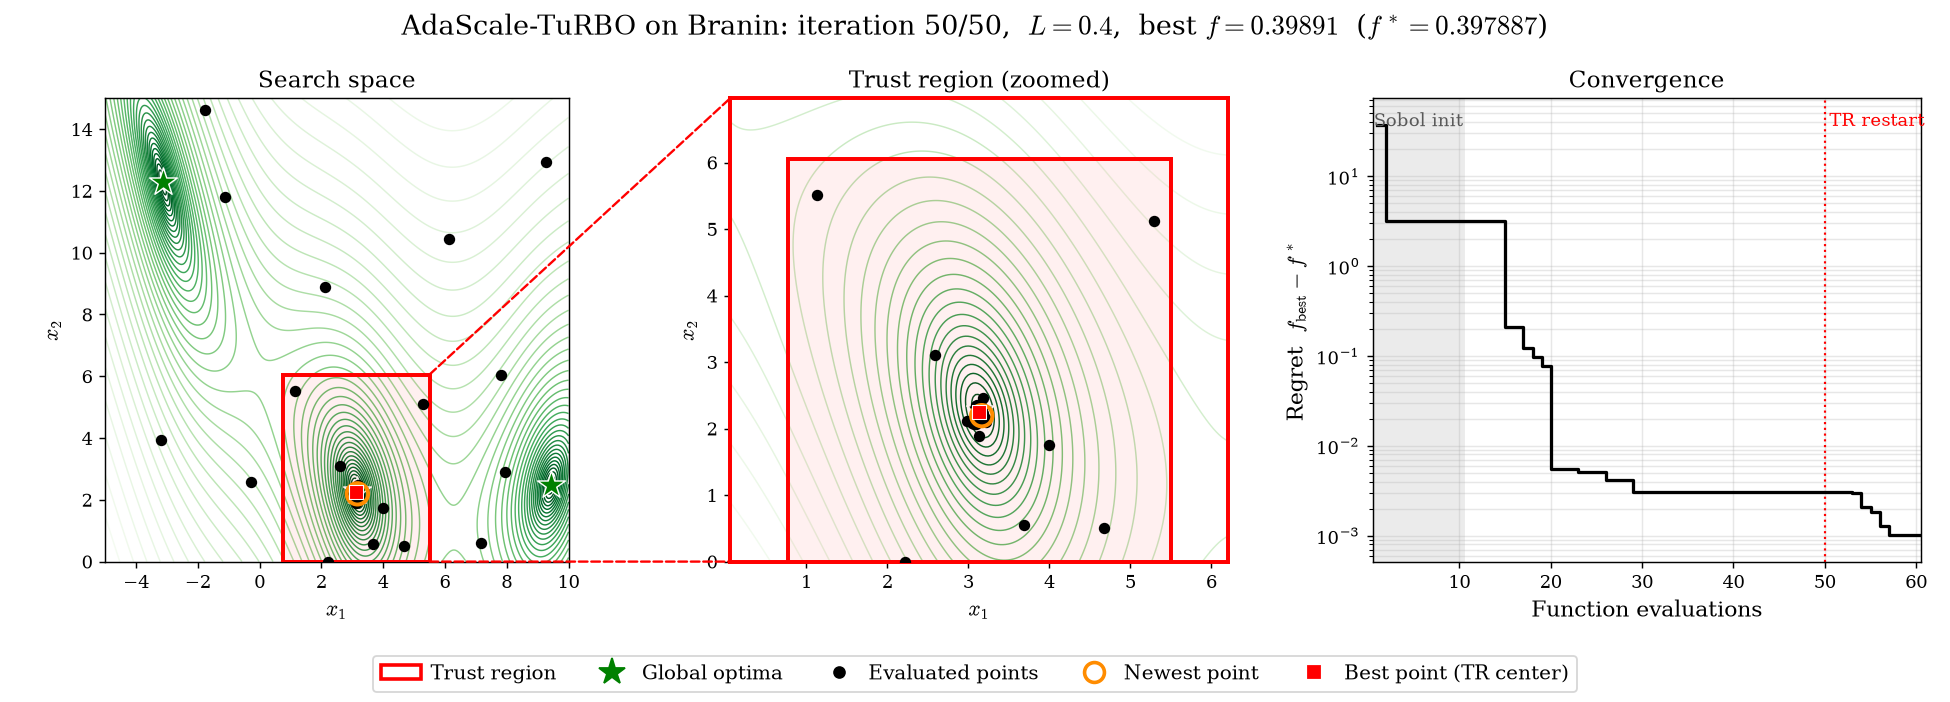
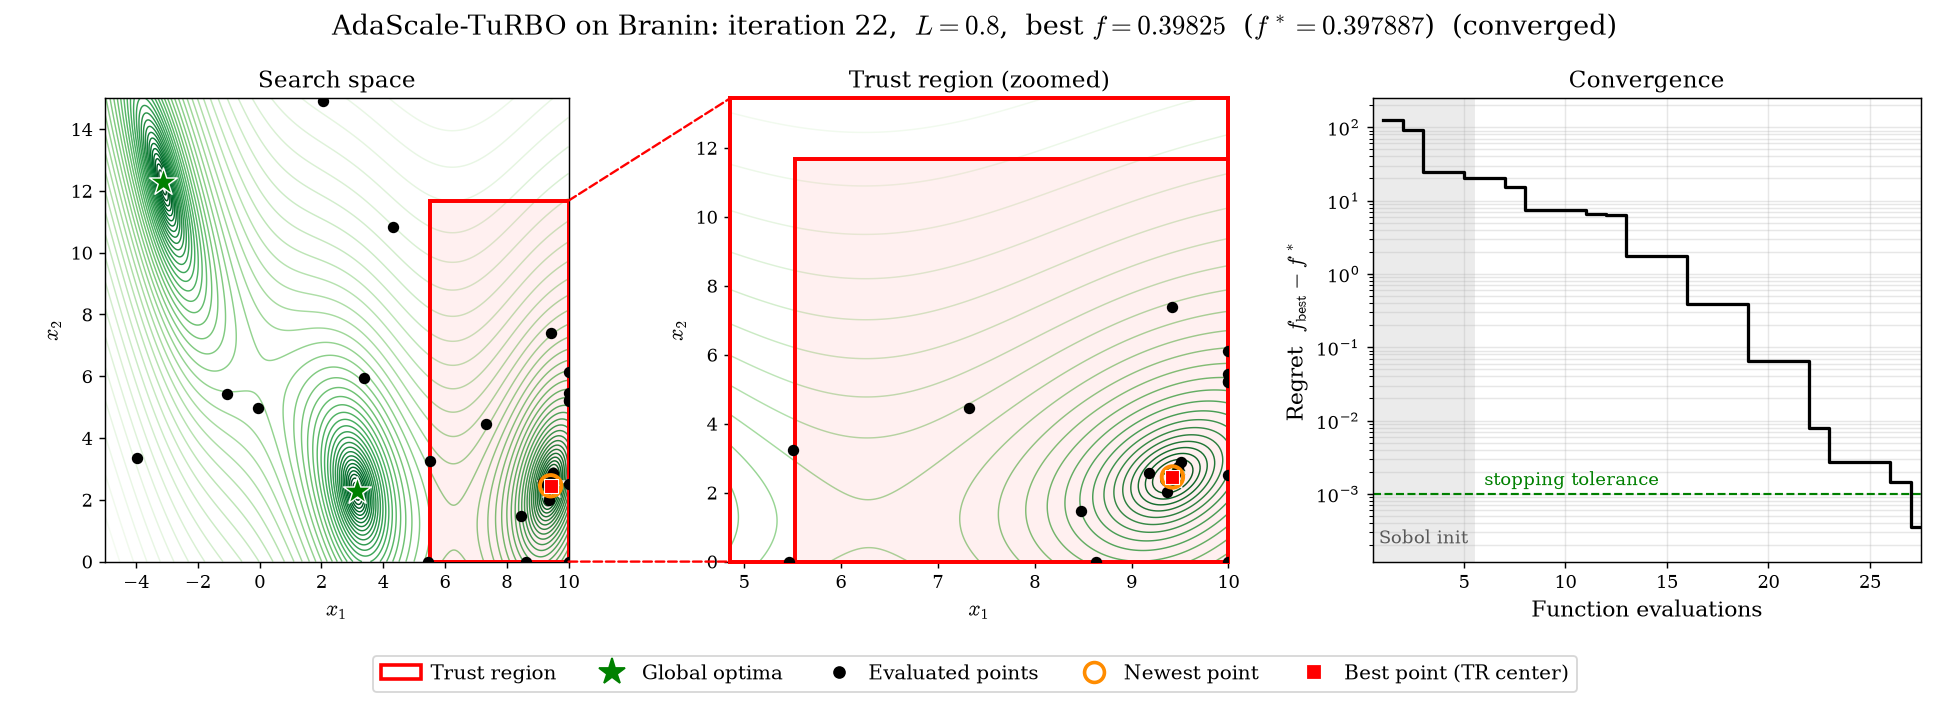
Branin example: 5-point init and early stopping
Start from 5 Sobol points (seed 3, away from all optima) and stop once
the regret drops below --tol (default 1e-3).

diff --git a/examples/branin_animation.py b/examples/branin_animation.py
@@ -4,7 +4,9 @@ Run AdaScale-TuRBO on the 2D Branin function and animate the optimization:
 evaluated points, the trust region, and the incumbent at every iteration.
 
 Usage:
-    python examples/branin_animation.py [--seed 0] [--n-init 10] [--n-iter 50]
+    python examples/branin_animation.py [--seed 3] [--n-init 5] [--n-iter 50] [--tol 1e-3]
+
+The run stops early once the regret f_best - f* drops below --tol.
 """
 import argparse
 import math
@@ -55,7 +57,7 @@ def trust_region_bounds(state, model, X, Y):
     return tr_lb, tr_ub
 
 
-def run(seed, n_init, n_iter):
+def run(seed, n_init, n_iter, tol):
     torch.manual_seed(seed)
     fun = Branin(negate=True).to(dtype=dtype, device=device)  # maximize -Branin
     lb, ub = fun.bounds[0], fun.bounds[1]
@@ -101,6 +103,10 @@ def run(seed, n_init, n_iter):
         print(f"iter {it + 1:3d}  L = {history[-1]['length']:.4f}  "
               f"f(x) = {-Y_next.item():8.4f}  best = {-Y.max().item():.6f}")
 
+        if -Y.max().item() - BRANIN_MIN < tol:
+            print(f"  Regret below {tol:g} after iteration {it + 1}; stopping")
+            break
+
         restarted = state.restart_triggered
         if restarted:  # TR collapsed: restart from L0 around the incumbent
             print(f"  TR side length below L_min after iteration {it + 1}; resetting L to 0.8")
@@ -124,7 +130,7 @@ def _branin_grid(xlim, ylim, n=300):
     return g1, g2, Branin()(grid).numpy().reshape(g1.shape)
 
 
-def animate(X_all, f_all, history, lb, ub, n_init, out_path, fps=3):
+def animate(X_all, f_all, history, lb, ub, n_init, tol, out_path, fps=3):
     plt.rcParams.update({
         "font.family": "serif",
         "mathtext.fontset": "cm",
@@ -163,8 +169,8 @@ def animate(X_all, f_all, history, lb, ub, n_init, out_path, fps=3):
     # Regret curve
     evals = np.arange(1, len(f_all) + 1)
     ax_r.axvspan(0.5, n_init + 0.5, color="0.92", zorder=0)
-    ax_r.text(n_init / 2 + 0.5, 0.97, "Sobol init", transform=ax_r.get_xaxis_transform(),
-              ha="center", va="top", fontsize=10, color="0.35")
+    ax_r.text(n_init / 2 + 0.5, 0.03, "Sobol init", transform=ax_r.get_xaxis_transform(),
+              ha="center", va="bottom", fontsize=10, color="0.35")
     restart_markers = []  # (iteration, artists), revealed once the animation reaches them
     for i, h in enumerate(history):
         if h["restarted"]:
@@ -172,10 +178,13 @@ def animate(X_all, f_all, history, lb, ub, n_init, out_path, fps=3):
             label = ax_r.text(n_init + i + 1.5, 0.97, "TR restart", ha="left", va="top",
                               transform=ax_r.get_xaxis_transform(), fontsize=10, color="red")
             restart_markers.append((i + 1, (line, label)))
+    ax_r.axhline(tol, color="green", linestyle="--", linewidth=1.2)
+    ax_r.text(n_init + 1, tol * 1.15, "stopping tolerance", ha="left", va="bottom",
+              fontsize=10, color="green")
     (curve,) = ax_r.plot([], [], color="black", linewidth=1.8, drawstyle="steps-post")
     ax_r.set_xlim(0.5, len(f_all) + 0.5)
     ax_r.set_yscale("log")
-    ax_r.set_ylim(regret.min() / 2, regret.max() * 2)
+    ax_r.set_ylim(min(regret.min(), tol) / 3, regret.max() * 2)
     ax_r.set_xlabel("Function evaluations")
     ax_r.set_ylabel(r"Regret  $f_{\mathrm{best}} - f^*$")
     ax_r.set_title("Convergence")
@@ -263,8 +272,10 @@ def animate(X_all, f_all, history, lb, ub, n_init, out_path, fps=3):
             title.set_text(f"AdaScale-TuRBO on Branin: initial design ({n_init} Sobol points)")
         else:
             note = "  (TR restarted)" if h["restarted"] else ""
+            if k == n_iter and regret[n_seen - 1] < tol:
+                note = "  (converged)"
             title.set_text(
-                f"AdaScale-TuRBO on Branin: iteration {k}/{n_iter},  $L = {h['length']:.3g}$,  "
+                f"AdaScale-TuRBO on Branin: iteration {k},  $L = {h['length']:.3g}$,  "
                 f"best $f = {f_all[i_best]:.5f}$  ($f^* = {BRANIN_MIN}$){note}"
             )
 
@@ -277,9 +288,10 @@ def animate(X_all, f_all, history, lb, ub, n_init, out_path, fps=3):
 
 def main():
     parser = argparse.ArgumentParser(description=__doc__.split("\n\n")[0])
-    parser.add_argument("--seed", type=int, default=0)
-    parser.add_argument("--n-init", type=int, default=10)
+    parser.add_argument("--seed", type=int, default=3)
+    parser.add_argument("--n-init", type=int, default=5)
     parser.add_argument("--n-iter", type=int, default=50)
+    parser.add_argument("--tol", type=float, default=1e-3, help="stop once f_best - f* < tol")
     parser.add_argument("--fps", type=int, default=3)
     parser.add_argument(
         "--out", default=os.path.join(os.path.dirname(os.path.abspath(__file__)),
@@ -287,8 +299,8 @@ def main():
     )
     args = parser.parse_args()
 
-    X_all, f_all, history, lb, ub = run(args.seed, args.n_init, args.n_iter)
-    animate(X_all, f_all, history, lb, ub, args.n_init, args.out, fps=args.fps)
+    X_all, f_all, history, lb, ub = run(args.seed, args.n_init, args.n_iter, args.tol)
+    animate(X_all, f_all, history, lb, ub, args.n_init, args.tol, args.out, fps=args.fps)
     print(f"Saved {args.out}")
 
 
